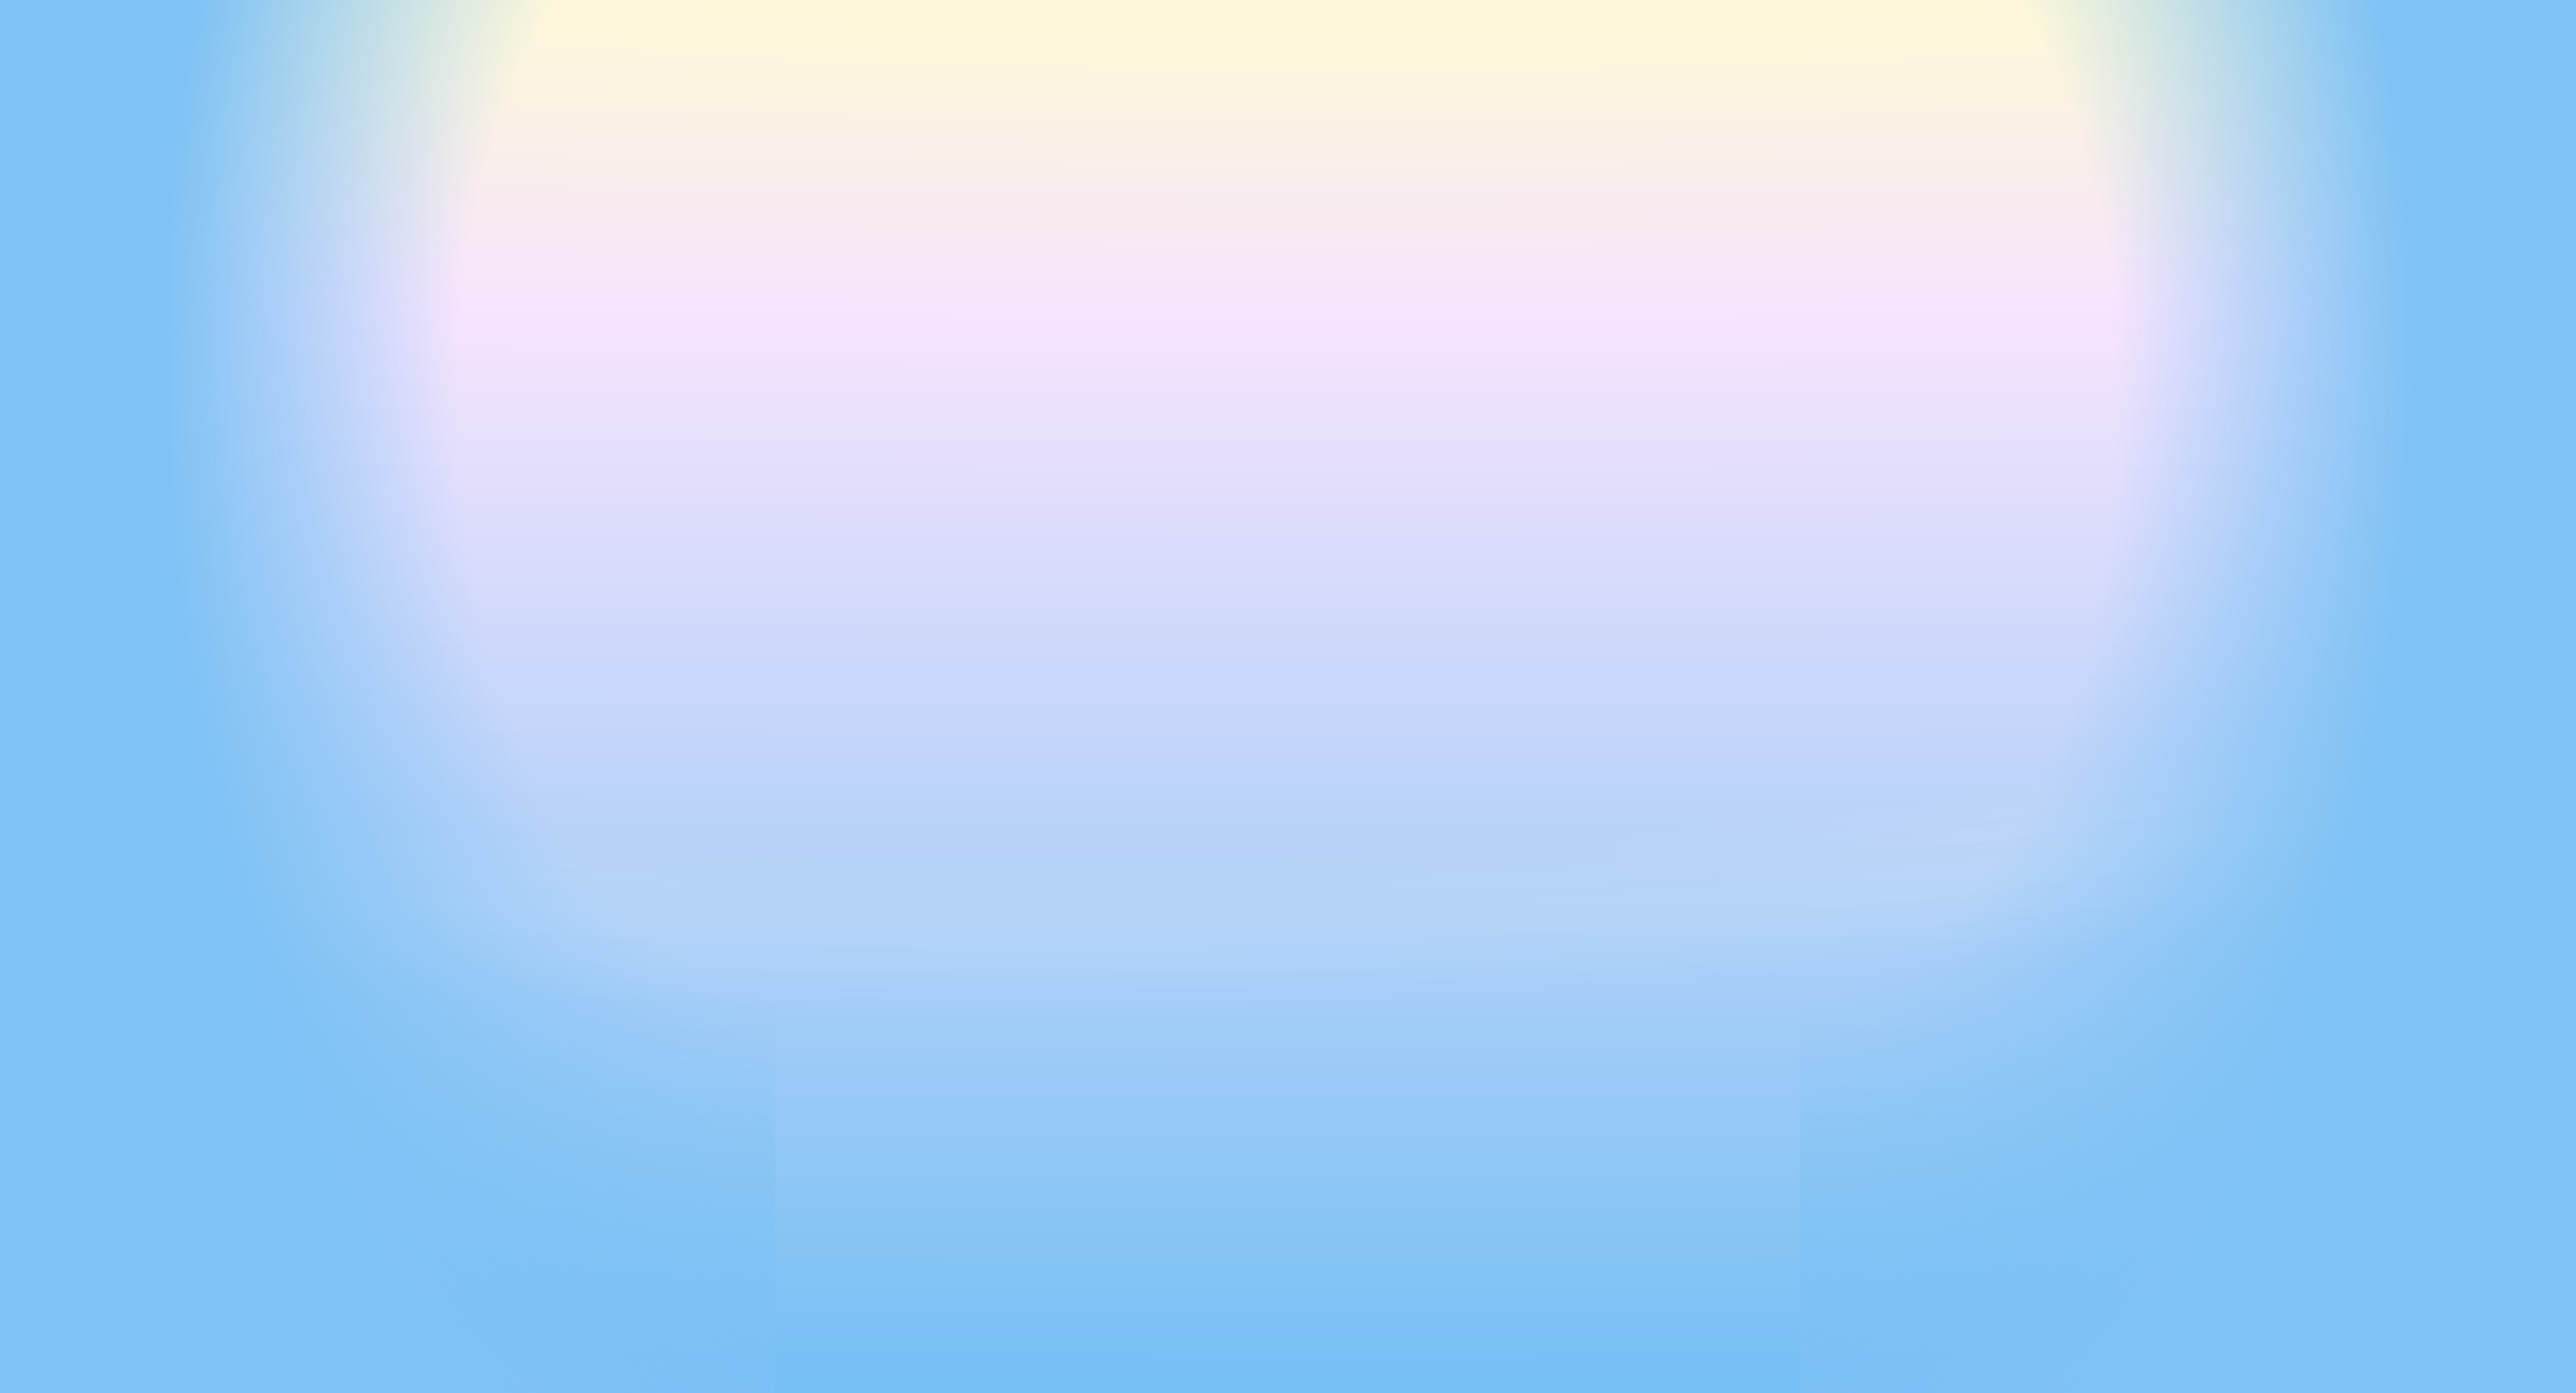
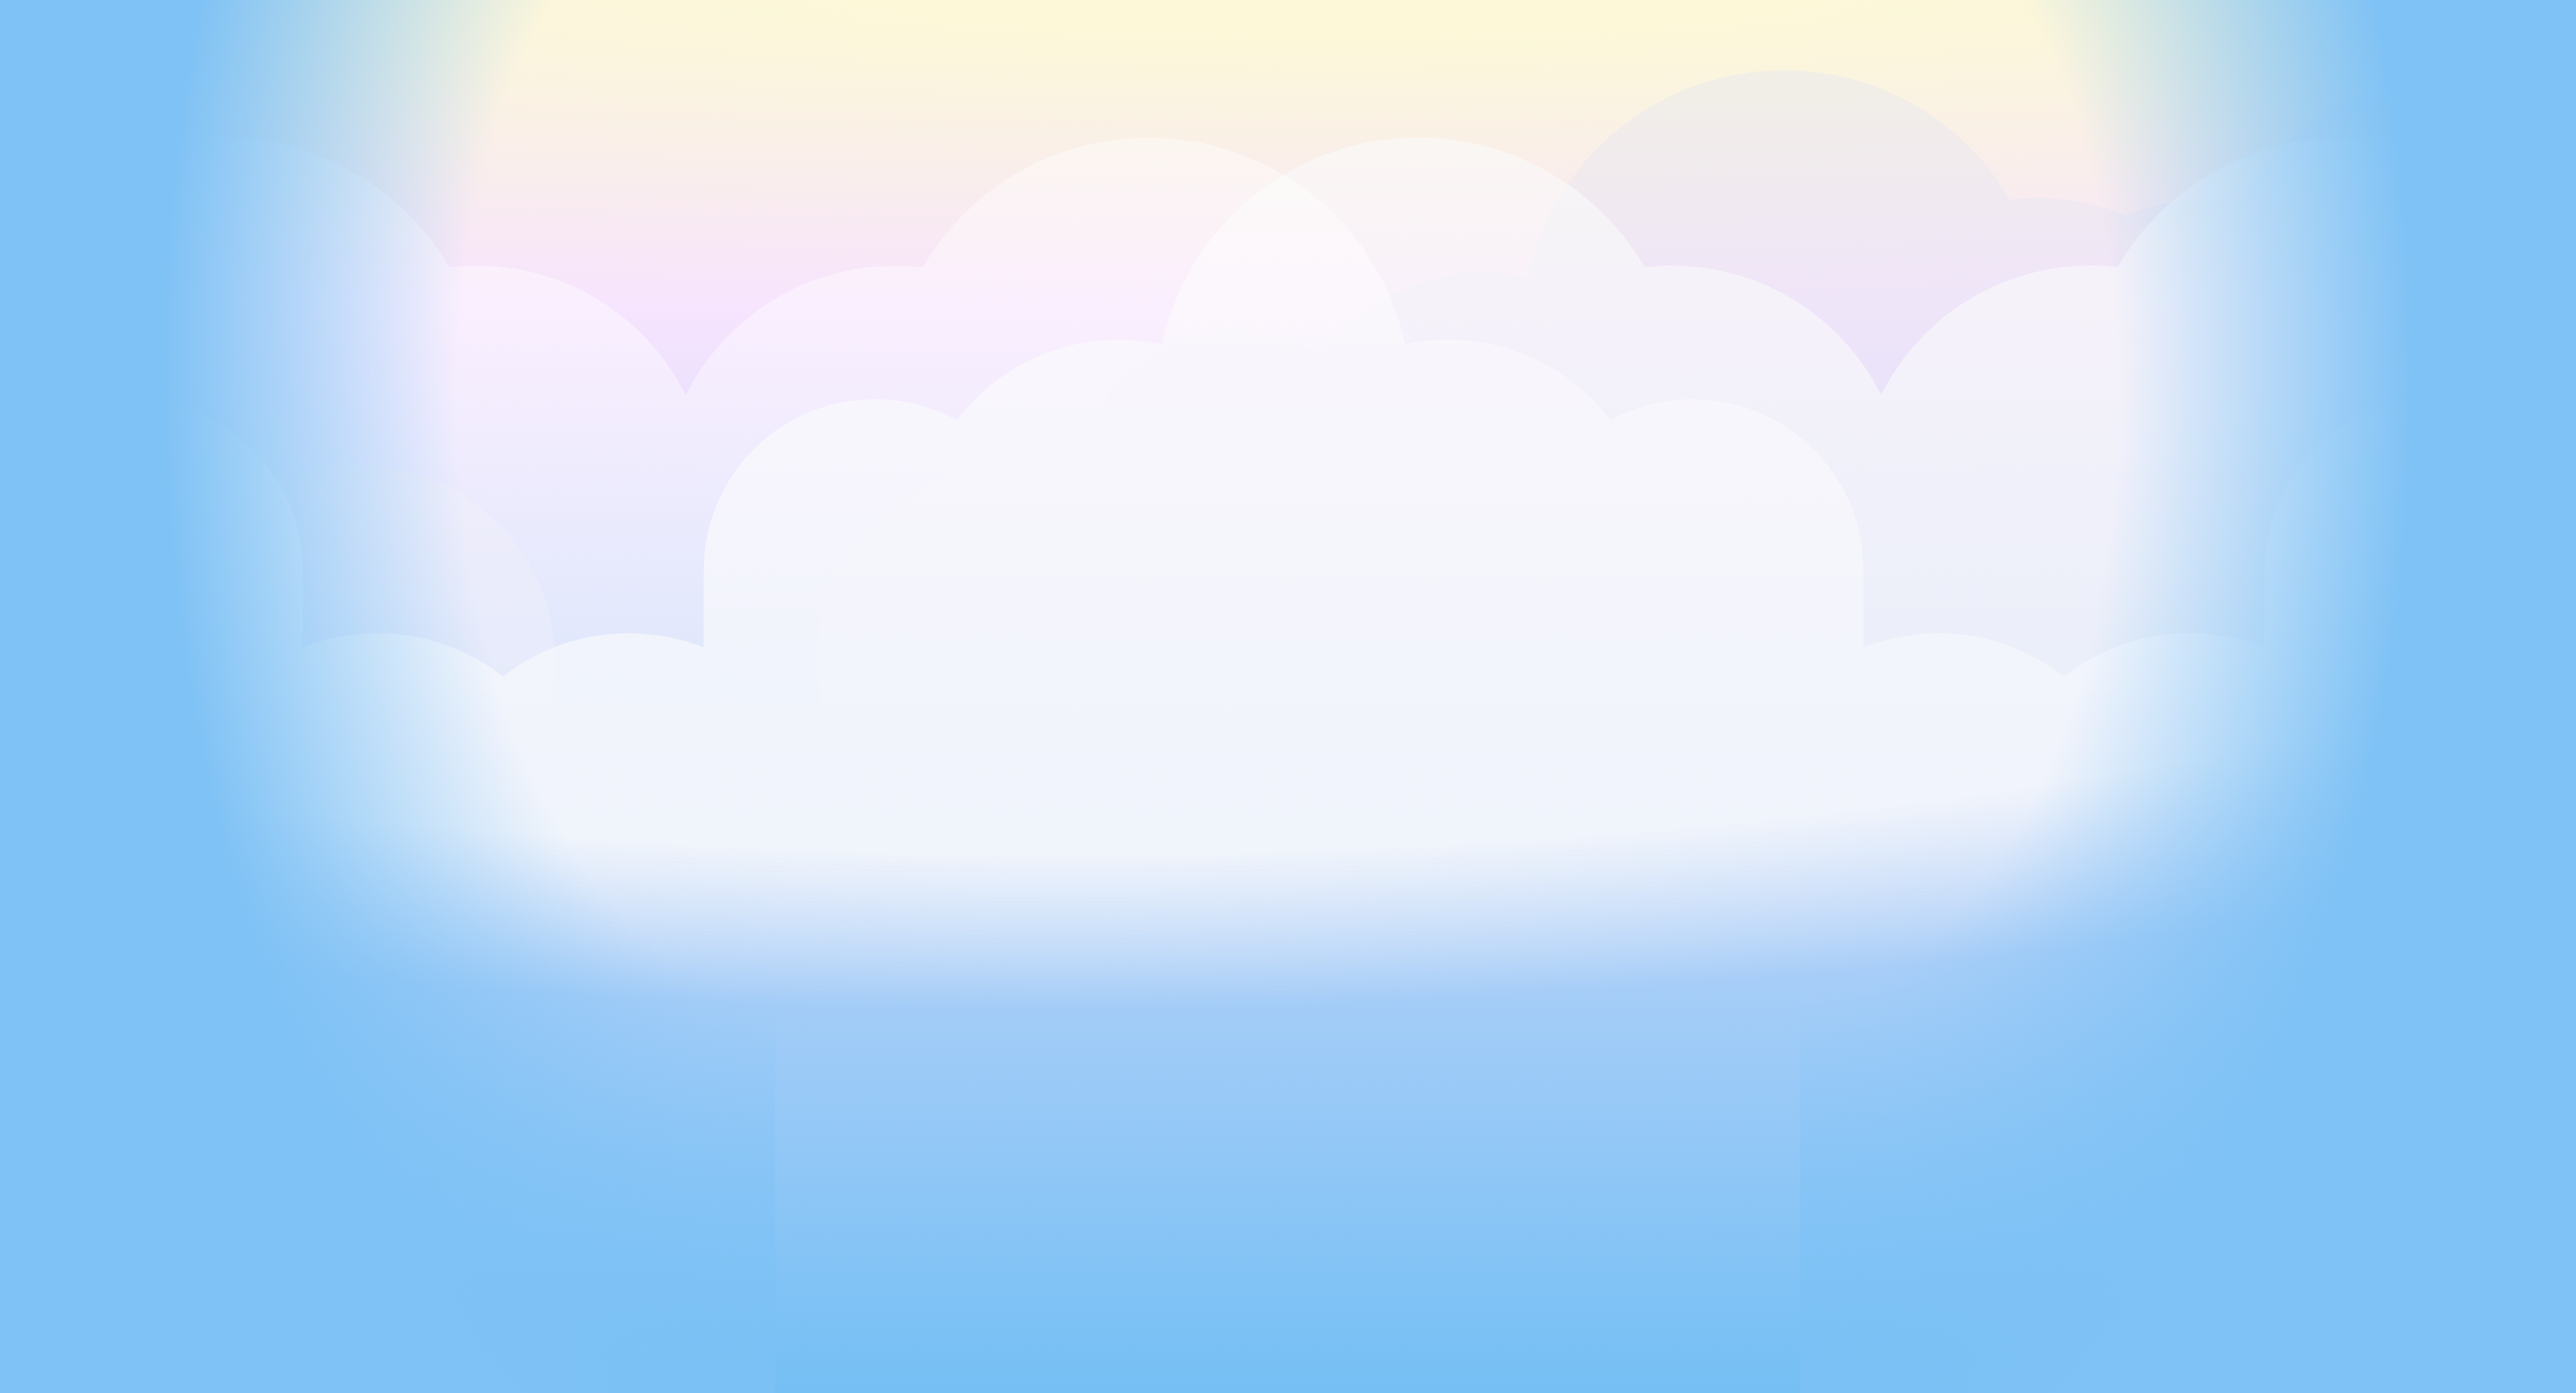
Spring24 Appeal: Swap background to png/avif

Changed region(s): [[0.1236, 0.3673, 0.8653, 0.6735]]

diff --git a/media/css/appeal/spring24.css b/media/css/appeal/spring24.css
@@ -185,9 +185,16 @@
   --bg2: var(--color-white);
   --bg: var(--color-appeal-bg);
   --txt: var(--color-appeal-txt);
-  --bg-img: url('/media/svg/appeals/spring24/background.svg');
   --shadow: 0 4px 16px rgba(0, 0, 0, 0.1);
   --accent-text: var(--color-appeal-txt);
+
+
+  --bg-img: url('/media/img/thunderbird/appeal/spring24/background.png');
+  --bg-img-set: image-set(
+      url('/media/img/thunderbird/appeal/spring24/background.avif') type('image/avif'),
+      /*url('/media/img/thunderbird/appeal/spring24/background.webp') type('image/webp'),*/
+      var(--bg-img) type('image/png')
+  );
 }
 
 @media (prefers-color-scheme: dark) {
@@ -210,6 +217,7 @@ html {
 body {
   background-color: var(--bg);
   background-image: var(--bg-img);
+  background-image: var(--bg-img-set);
   background-position: top center;
   background-size: auto 1800px; /*500px;*/
   background-repeat: no-repeat; /*repeat-x;*/

diff --git a/sites/www.thunderbird.net/thunderbird/115.0/spring24/index.html b/sites/www.thunderbird.net/thunderbird/115.0/spring24/index.html
@@ -12,7 +12,7 @@
  {% block page_favicon_large %}{{ static('img/thunderbird/favicon-196.png') }}{% endblock %}
  {% block page_ios_icon %}{{ static('img/thunderbird/ios-icon-180.png') }}{% endblock %}
 
- {% block page_css %}<link href="/media/css/appeals/spring24.css" rel="stylesheet" type="text/css" />{% endblock %}
+ {% block page_css %}<link href="/media/css/appeal/spring24.css" rel="stylesheet" type="text/css" />{% endblock %}
 
  {% block page_title %}{{ _('Thunderbird is Powered by You!') }}{% endblock %}
 
@@ -49,10 +49,10 @@
   </aside>
   <aside id="illustration" aria-hidden="true">
     <div id="ill-body">
-      {{ svg('appeals/spring24/ill-body') }}
+      {{ svg('appeal/spring24/ill-body') }}
     </div>
     <div id="ill-hearts">
-      {{ svg('appeals/spring24/ill-hearts') }}
+      {{ svg('appeal/spring24/ill-hearts') }}
     </div>
   </aside>
 </header>
